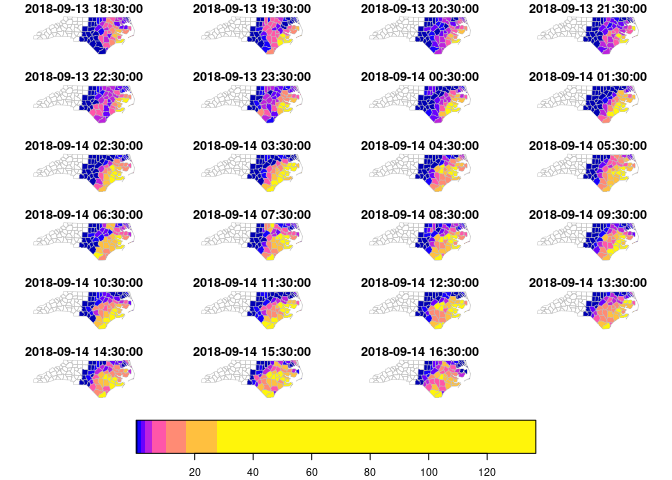
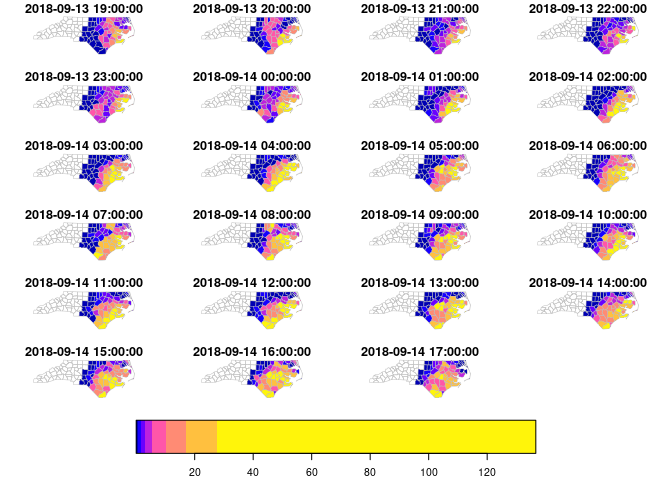
README

diff --git a/README.md b/README.md
@@ -47,7 +47,7 @@ suppressPackageStartupMessages(library(dplyr))
 library(stars)
 # Loading required package: abind
 # Loading required package: sf
-# Linking to GEOS 3.9.0, GDAL 3.2.0, PROJ 7.2.0
+# Linking to GEOS 3.9.0, GDAL 3.2.1, PROJ 7.2.1
 tif = system.file("tif/L7_ETMs.tif", package = "stars")
 read_stars(tif) %>%
   slice(index = 1, along = "band") %>%
@@ -105,13 +105,14 @@ The following methods are currently available for `stars_proxy` objects:
 
 ``` r
 methods(class = "stars_proxy")
-#  [1] [              adrop          aggregate      aperm          as.data.frame 
-#  [6] c              coerce         dim            droplevels     filter        
-# [11] initialize     Math           merge          mutate         Ops           
-# [16] plot           predict        print          pull           select        
-# [21] show           slice          slotsFromS3    split          st_apply      
-# [26] st_as_stars    st_crop        st_mosaic      st_redimension st_sample     
-# [31] st_set_bbox    transmute      write_stars   
+#  [1] [              [[<-           [<-            adrop          aggregate     
+#  [6] aperm          as.data.frame  c              coerce         dim           
+# [11] droplevels     filter         hist           initialize     is.na         
+# [16] Math           merge          mutate         Ops            plot          
+# [21] predict        print          pull           select         show          
+# [26] slice          slotsFromS3    split          st_apply       st_as_sf      
+# [31] st_as_stars    st_crop        st_mosaic      st_redimension st_sample     
+# [36] st_set_bbox    transmute      write_stars   
 # see '?methods' for accessing help and source code
 ```
 
@@ -131,18 +132,15 @@ prec_file = system.file("nc/test_stageiv_xyt.nc", package = "stars")
 #  assuming WGS84 Lat/Lon.
 # stars object with 3 dimensions and 1 attribute
 # attribute(s):
-#  Total_precipitation_surface_1_Hour_Accumulation [kg/m^2]
-#  Min.   :  0.000                                         
-#  1st Qu.:  0.000                                         
-#  Median :  0.750                                         
-#  Mean   :  4.143                                         
-#  3rd Qu.:  4.630                                         
-#  Max.   :163.750                                         
+#                                            Min. 1st Qu. Median     Mean 3rd Qu.
+# Total_precipitation_surface_1_... [kg/m^2]    0       0   0.75 4.143009    4.63
+#                                              Max.
+# Total_precipitation_surface_1_... [kg/m^2] 163.75
 # dimension(s):
 #      from  to                  offset   delta  refsys point
 # x       1  87                      NA      NA  WGS 84    NA
 # y       1 118                      NA      NA  WGS 84    NA
-# time    1  23 2018-09-13 18:30:00 UTC 1 hours POSIXct    NA
+# time    1  23 2018-09-13 19:00:00 UTC 1 hours POSIXct    NA
 #                              values x/y
 # x    [87x118] -80.6113,...,-74.8822 [x]
 # y      [87x118] 32.4413,...,37.6193 [y]
@@ -151,11 +149,10 @@ prec_file = system.file("nc/test_stageiv_xyt.nc", package = "stars")
 sf::read_sf(system.file("gpkg/nc.gpkg", package = "sf"), "nc.gpkg") %>%
   st_transform(st_crs(prec)) -> nc # transform from NAD27 to WGS84
 nc_outline = st_union(st_geometry(nc))
-# although coordinates are longitude/latitude, st_union assumes that they are planar
 plot_hook = function() plot(nc_outline, border = 'red', add = TRUE)
 prec %>%
   slice(index = 1:12, along = "time") %>%
-  plot(downsample = c(5, 5, 1), hook = plot_hook)
+  plot(downsample = c(3, 3, 1), hook = plot_hook)
 ```
 
 ![](man/figures/README-plot3-1.png)<!-- -->
@@ -166,8 +163,6 @@ plotted:
 
 ``` r
 a = aggregate(prec, by = nc, FUN = max)
-# although coordinates are longitude/latitude, st_intersects assumes that they are planar
-# although coordinates are longitude/latitude, st_intersects assumes that they are planar
 plot(a, max.plot = 23, border = 'grey', lwd = .5)
 ```
 
